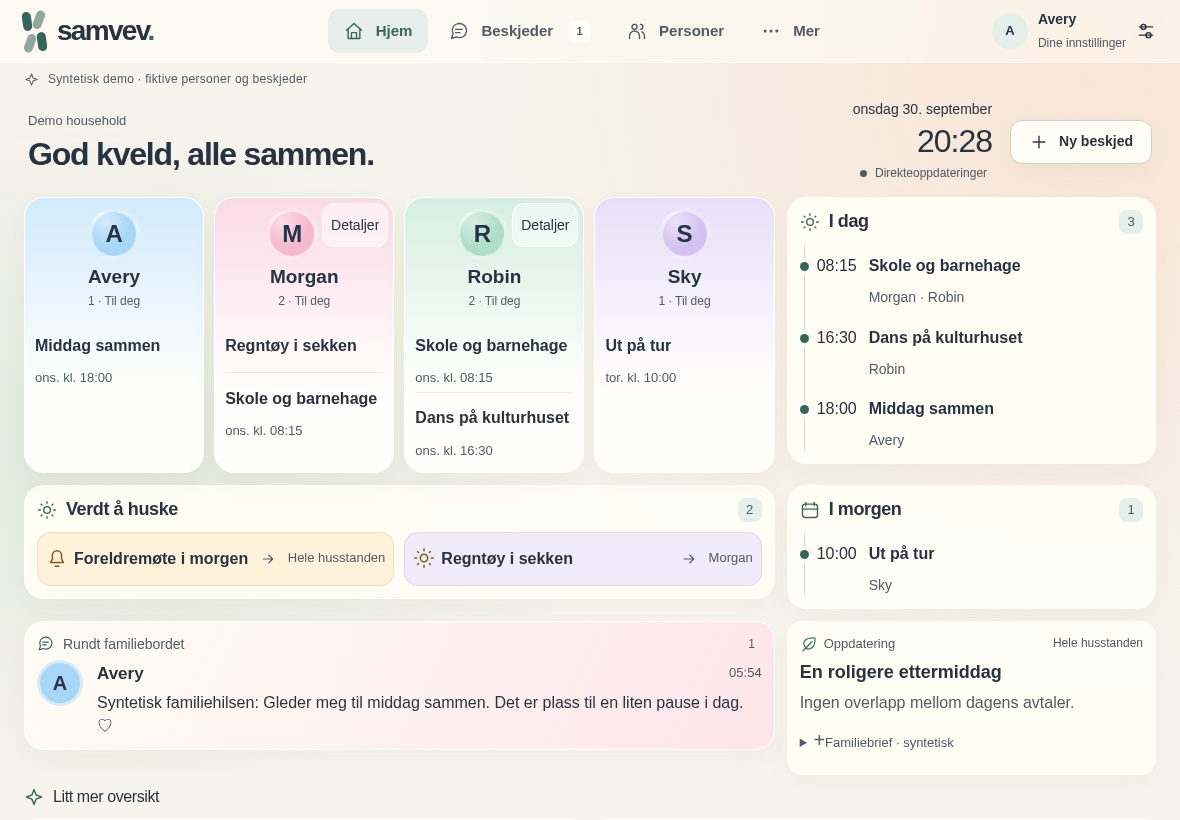
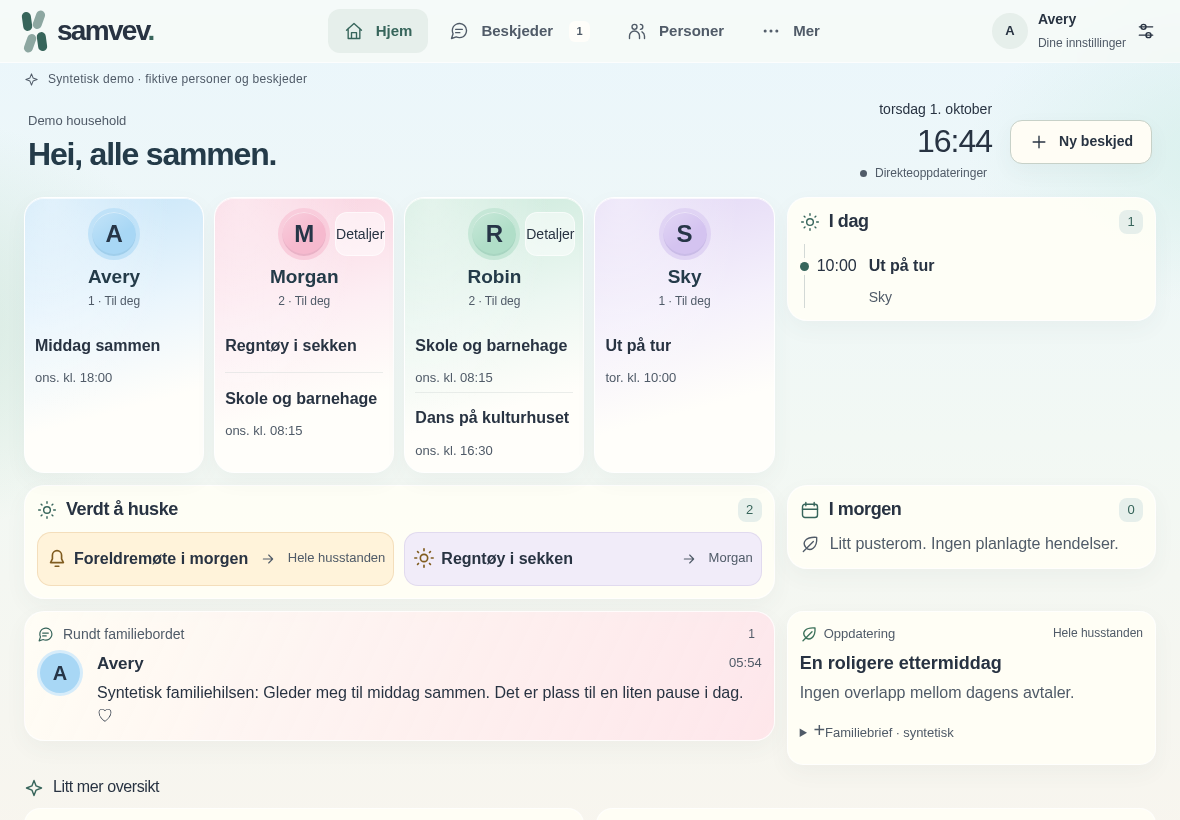
docs(design): publish verified fourth review round

diff --git a/docs/design/review/ROUND_4_REPORT.md b/docs/design/review/ROUND_4_REPORT.md
@@ -1,0 +1,133 @@
+# M3 design round 4 — 2026-10-01
+
+Activated the complete mailbox at `4ec2c249555596a202384966d13aa0c04d80263f`.
+Final DCO-signed source: `8cc0236b4a3dd4ce43eee36591f74e75de6f4e88`. Publication evidence is committed separately.
+
+## Concrete visual result
+
+Both original references and all 14 Round 3 images were opened before editing.
+The ten actual candidate viewports were compared with those references; the
+material proposal was retained after visual review, rather than increasing
+transparency or rebuilding the accepted composition. Native zoom exposed two
+confirmed problems, which were corrected and followed by a complete retest.
+
+- Light desktop: sky-blue greeting and mint perimeter replace the beige/peach
+  emphasis. Blue/pink/mint/lilac identities have shallow directional shading and
+  warm off-white reading areas; no luminous halo or invented portraits.
+- Dark desktop: deeper neutral navy main glass has a restrained reflection and
+  fine upper edge. Warm/lilac reminders and the teal/plum human-message surface
+  are distinct layers; the existing landscape, crop and lower overlay remain.
+- Mobile/tablet: the same materials add no decorative height. Portrait retains
+  observation under Tomorrow and the human message before detailed people.
+  Existing structured-kind icons have consistent strokes and optical sizing;
+  font sizes, semantic mapping and message hierarchy are preserved.
+- iPad landscape/Shelly: avatar, name and metadata use the full card's center
+  axis with and without Details. The control has its own normal-flow track and
+  reflows in genuinely narrow cards; dark compact rows remain left-aligned.
+- True 200% zoom: panel headings wrap safely. Below 320 CSS px, existing hero
+  content occupies separate rows, identities/navigation use two columns and
+  bottom clearance preserves terminal content. Normal five-size layouts and
+  section order are unchanged. Four mobile navigation targets measure 85×58.
+
+## Validation actually run
+
+Existing isolated `samvev-m1` QA app/database/worker were reused, without reset,
+provisioning, password preparation or installs. Only `apps/web/src/home.css`
+changed; no functional/API/auth/data/schema/tooling change justified a mutating
+M3 harness. Earlier rounds' M3 tests are historical, not claimed as rerun here.
+
+- Node 24: `npm run check --workspace @samvev/web` PASS;
+  `npm run test --workspace @samvev/web` **32/32 PASS**.
+- Explicit `bash scripts/design-review-build.sh` after each signed source
+  checkpoint. Final 164 root inputs equal source Git blobs and build proof;
+  all four built files equal actual LAN HTTP bytes. No build after capture.
+- Complete final focused LAN suite: both themes/all five sizes, Axe, overflow,
+  44px targets, first viewport, calculated more/localized Details, details/focus,
+  theme/rotation, native provenance Enter/Space and open/focus regrouping,
+  current-projection revision/withdrawal/expiry/person removal; **PASS**.
+- **14** read-only empty/long-Tomorrow/missing-observation/1–4–8-person stress
+  cases PASS. Mock projections were never used for published images or written
+  to QA data. All four identities and both real reminders remain visible;
+  desktop and low-height variants retain full human message and real support.
+- **12** NB/EN baseline/long-name axis cases at 1001/1180/1280, with/without
+  controls: PASS, maximum avatar-axis error 0.008 px, name/metadata 0 px;
+  no collision, overflow or undersized control. Fallback geometry/Axe PASS.
+- Fresh actual composited text contrast, normal and derived no-blur fallback:
+  **minimum 5.031:1, PASS**, including opened provenance in both themes.
+  Paired normal/text-transparent PNGs identify actual glyph pixels, compare
+  computed foreground (including alpha) with the same-layout background and
+  apply normal 4.5:1 / large-text 3:1 thresholds. Unrendered closed/offviewport
+  nodes are explicitly recorded. Earlier all-rectangle diagnostic contamination
+  was retained as invalid measurement evidence, not a product contrast result.
+- True Chromium `chrome.tabs.setZoom(2)` via ignored local MV3 helper: light/NB
+  and dark/EN desktop 1920→960 and mobile 390→195 CSS px PASS. DPR becomes 2,
+  CSS zoom stays 1; greeting/clock do not overlap, visible nav targets fit,
+  terminal text/provenance/footer clear fixed nav. Actual top and CDP end
+  screenshots were opened. Earlier blank Playwright scaled-scroll captures
+  were diagnostic artifacts, not runtime failures.
+- Literal UI admin/admin login, actual Family Hub and UI logout PASS in focused
+  QA; temporary preferences restored to nb/system. Post-capture smoke and final
+  evidence verification are recorded below after capture.
+
+Ignored execution evidence remains under `.local/m3/design-round4/`, including
+final `focused-final-8cc/`, `material-axis-final-8cc/`, `native-zoom-final-8cc/`,
+`final-logs-8cc/` and `actual-composited-contrast-8cc.json`. Initial failures and
+invalid measurements are preserved; tests were corrected for visible controls
+and naturally changed dates, not weakened to hide a UI defect.
+
+## Natural data and limits
+
+The ordinary clock is now October 1 in Europe/Oslo: Today has one event,
+Tomorrow none, compared with three/one on September 30. Four people, nine items,
+two reminders and one human message remain. Stored prior-day events can still
+appear in personal previews according to existing projection rules. No events
+were redated, reseeded, added or kept alive for capture. The old three-row Today
+fixture condition cannot be certified from today's real screenshots alone.
+
+Initials remain a truthful fallback instead of illustrated reference portraits.
+Icon/type refinement is modest; visual reference parity is not an automated
+PASS or Work approval. Shelly images show member Home at 1280×752, not physical
+hardware or paired-display certification. The known fixed-nav stripe in mobile
+full-page supplements is a capture artifact; viewport images are primary.
+
+## Publication and operations
+
+`bash scripts/design-review.sh` PASS: round `20261001144432-8cc0236b-66eead31`,
+captured `2026-10-01T14:44:32.232Z`, honest `workingTreeDirty: true` for
+review documentation/evidence outside immutable build inputs. All 14 actual Home
+PNGs were opened by integrator, UX and requirements reviewers and independently
+verified against manifest SHA-256, theme, viewport and source. Full pages are
+1920×1302/1202 and 390×2508/2521; viewport files retain all five required sizes.
+The previous Round 3 latest set was archived byte-identically (15 files); all
+61 older archive files, both originals, mailbox and three prior reports remain
+unchanged. No mock/stress screenshot is published.
+
+Post-capture literal **admin/admin** → ordinary authentication request → actual
+Family Hub → UI logout on `http://192.168.0.220:4173` PASS. Content/account
+aggregates and all authentication hashes equal the pre-round snapshot; admin
+revision remains 2. Health is OK and QA app/database/worker remain healthy.
+Protected root HEAD remains `390f6a6a6027e257a5250cfed1cc0517b6974bd3`.
+All 164 final mounted inputs and four served files match source/build proof.
+Independent final verification: `.local/m3/design-round4/final-verification.json`.
+
+Independent final release gate **PASS**: source/build/HTTP/PNG hashes, all
+683 staged root/publishing/index files, archive preservation, QA evidence,
+health, unchanged data/authentication and protected Git metadata were checked.
+GitHub read-only checks found zero feature PRs and zero feature Actions runs.
+
+Review evidence is prepared for DCO-signed publication through the established
+publishing checkout, explicitly only `git push origin feat/m3-family-hub`.
+Latest manifest: [latest/manifest.json](latest/manifest.json).
+Later captures use `bash scripts/design-review.sh`; after a new signed source
+checkpoint, first run the explicit `bash scripts/design-review-build.sh`.
+No extra build was performed after this capture.
+
+Changed tracked paths: `apps/web/src/home.css`, this report,
+`docs/implementation/M1_STATUS.md`, all 14 `latest/` PNGs and manifest, and the
+15-file archive of the previous valid Round 3 set. Original references, mailbox,
+previous reports, older archives and review tooling remain byte-identical.
+
+No migration. Rollback is a normal DCO-signed revert of the CSS changes followed
+by the explicit QA build; do not reset data or rewrite history. No secrets or
+private data introduced. No PR, merge, deploy, main/force push, tag, release or
+Actions dispatch. Only explicit feature-branch publication is authorized.

diff --git a/docs/implementation/M1_STATUS.md b/docs/implementation/M1_STATUS.md
@@ -1,5 +1,23 @@
 # M1 implementation status
 
+## M3 design round 4 — 2026-10-01
+
+Activated mailbox `4ec2c24`: CSS-only sky/mint family atmosphere, layered navy
+glass, coherent existing icons and full-card identity-axis correction. Final
+DCO source `8cc0236b4a3dd4ce43eee36591f74e75de6f4e88` also fixes genuine 200% native-zoom
+heading/hero/navigation collisions without changing the five normal layouts.
+Node 24 check and 32/32 tests; complete focused LAN regressions/14 read-only
+stress cases; 12 NB/EN axis cases, fallback/Axe and native zoom PASS. Fresh
+actual composited contrast normal/fallback minimum 5.031:1 PASS. Existing
+admin/admin and synthetic QA data are preserved; natural October 1 Today1 /
+Tomorrow0 is documented. All 14 actual Home images are opened/hash verified, round
+`20261001144432-8cc0236b-66eead31`; post-capture literal admin/admin UI login/logout
+and unchanged content/authentication snapshots PASS. Independent final release
+gate PASS. Final capture/publication
+evidence is recorded in
+[Round 4 report](../design/review/ROUND_4_REPORT.md). No mutating M3 harness,
+production change or private data introduced; protected root Git is untouched.
+
 ## M3 design round 3 — 2026-09-30
 
 Activated mailbox `de14831`: dark Tomorrow/support column and balanced portrait,
